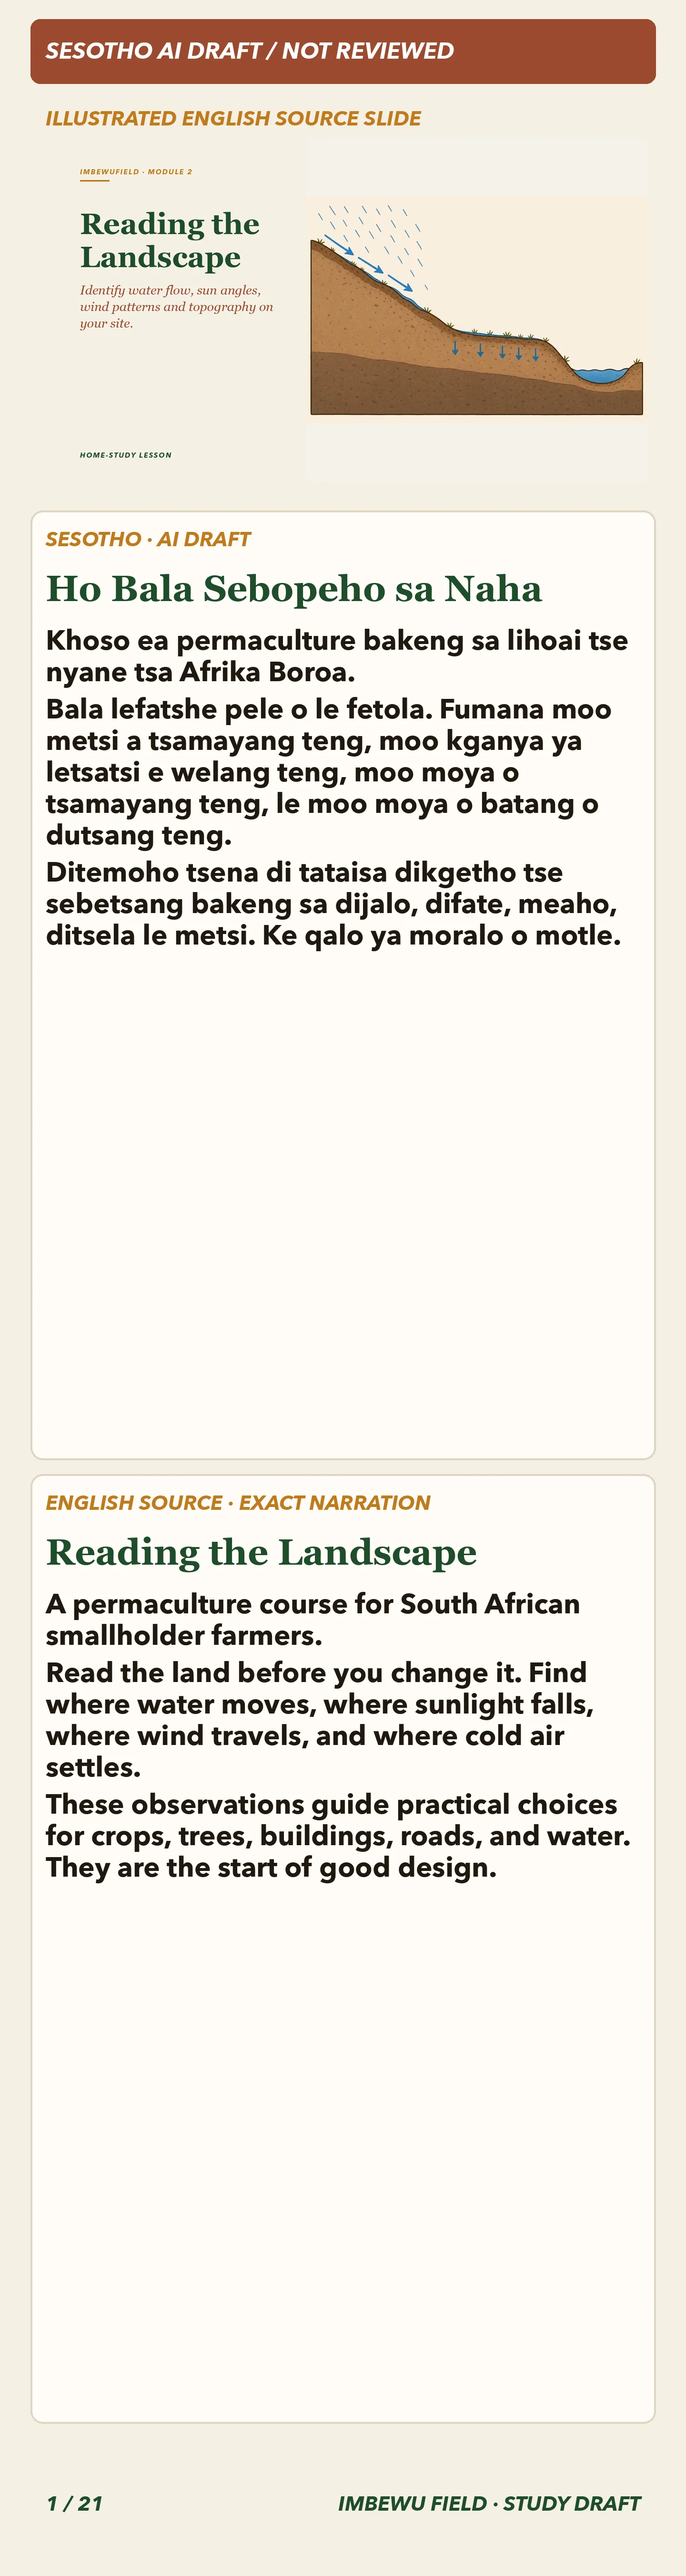
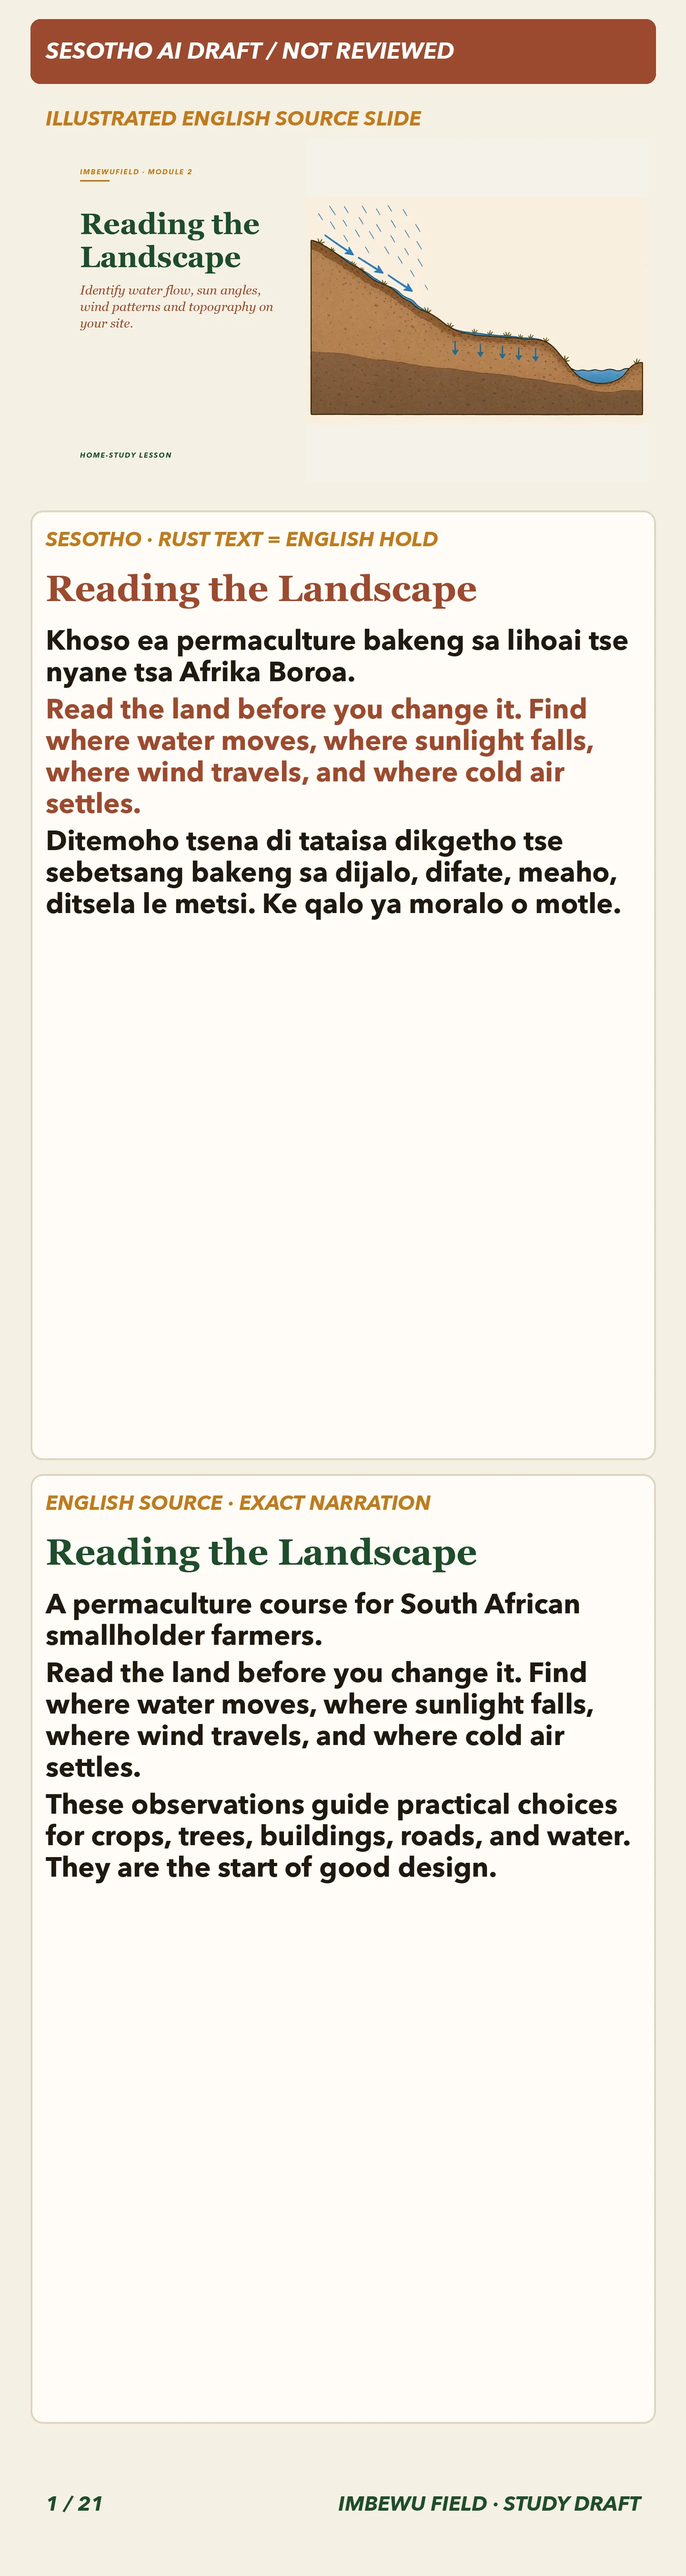
Screen Reading the Landscape heading drafts

Changed region(s): [[0.0625, 0.1867, 0.9062, 0.3733]]

diff --git a/lib/release-notes.ts b/lib/release-notes.ts
@@ -42,9 +42,10 @@ export interface UpdateTourStop {
 
 /** Shown newest-first under the Refresh button. The banner renders at most MAX_SHOWN lines total. */
 export const RELEASE_NOTES: ReleaseNote[] = [
-  { when: '28 September 2026', sha: '03671fb7', changes: [
+  { when: '28 September 2026', sha: '13579d94', changes: [
     'Introduction shows source-paired Tshivenda and Xitsonga slide drafts.',
     'Most Xitsonga text and all field guidance remain English.',
+    'Sesotho landscape slide 1 keeps its uncertain title and field step in English.',
   ], tour: [
     { title: 'Compare the regional Introduction slides', where: 'Study → Introduction to Permaculture', href: '/student',
       detail: 'Choose Tshivenda or Xitsonga. Drafts keep the English source; Xitsonga and Tshivenda audio are not available.' },

diff --git a/lib/course-asset-sizes.ts b/lib/course-asset-sizes.ts
@@ -985,7 +985,7 @@ export const COURSE_ASSET_SIZES: Readonly<Record<string, number>> = Object.freez
   '/course-decks/reading-landscape/en/slide-19.jpg': 105724,
   '/course-decks/reading-landscape/en/slide-20.jpg': 1136835,
   '/course-decks/reading-landscape/en/slide-21.jpg': 114448,
-  '/course-decks/reading-landscape/st/slide-01.webp': 247170,
+  '/course-decks/reading-landscape/st/slide-01.webp': 259018,
   '/course-decks/reading-landscape/st/slide-02.webp': 254716,
   '/course-decks/reading-landscape/st/slide-03.webp': 249790,
   '/course-decks/reading-landscape/st/slide-04.webp': 245114,

diff --git a/docs/study-translation-reviews/READING-LANDSCAPE-DESCRIPTIVE-HEADINGS-AI-DRAFT-REVIEW.md b/docs/study-translation-reviews/READING-LANDSCAPE-DESCRIPTIVE-HEADINGS-AI-DRAFT-REVIEW.md
@@ -1,0 +1,24 @@
+# Reading the Landscape descriptive heading screen
+
+- **Scope:** English source-paired headings only. This screen does not translate lesson bodies, field assignments, water-safety text, measurements, species names, or other farming guidance.
+- **Models:** Agy `gemini-3.8-flash-low` generated ten candidates from exact English headings. A separate Agy `gemini-3.1-pro-low` pass checked meaning, omissions, additions, and direction. These are machine checks, not fluent-speaker approval.
+- **Result:** Of the ten previously-held fields given new candidates, 2 passed the machine semantic screen and remain `draft`; 8 remain exact-English holds. The screen also flagged one existing Sesotho title and returned it to exact-English hold. No language or farming review has occurred.
+- **Field-instruction hold:** Sesotho slide 1's existing translation of “Read the land before you change it. Find where water moves, where sunlight falls, where wind travels, and where cold air settles.” was also restored to an exact-English hold. This was not counted as one of the ten new heading candidates.
+- **Selected-heading counts:** Across slides 1, 2, 3, 4, 8, 12, and 16, the final packets contain 12 existing or new `draft` headings and 9 exact-English heading holds. Per language: Sesotho 4/3, Tshivenda 3/4, Xitsonga 5/2 (draft/hold). These counts include prior drafts, not just this screen's candidates.
+- **Media:** The selected candidates are too small a localized subset to present as a translated slide deck, so no full deck was rebuilt. The existing registered Sesotho slide 1 was regenerated from its paired packet to reflect the held title and observation instruction. It was inspected at full size and 390 px wide; both now show those fields in English beside the exact English source. Other media was not changed.
+
+| Slide | Language | Exact English source | Candidate considered | Packet status | Back-check |
+|---|---|---|---|---|---|
+| 1 | Sesotho | Reading the Landscape | Ho Bala Sebopeho sa Naha | English hold | “Bala” was read literally as reading text/counting, not interpreting the landscape. This candidate was already present and is now held. |
+| 1 | Tshivenda | Reading the Landscape | U Vhala Mavu na Vhupo | English hold | Adds “soil” to “landscape/environment.” |
+| 4 | Tshivenda | Lesson 1: Where Rain Goes | Ngudo 1: Hune Mvula ya Ya Hone | Draft | Meaning preserved in the machine check. |
+| 8 | Sesotho | Lesson 2: Read Sun and Shade | Thuto ya 2: Bala Letsatsi le Moriti | English hold | “Bala” was read literally rather than as observing/interpreting. |
+| 8 | Tshivenda | Lesson 2: Read Sun and Shade | Ngudo 2: Vhalani Duvha na Zwidimbi | English hold | “Zwidimbi” was flagged as storms/disasters rather than shade. |
+| 12 | Sesotho | Lesson 3: Read Wind, Frost, and Slope | Thuto ya 3: Bala Moya, Serame, le Letswapo | English hold | Literal “Bala”; “Serame” may mean cold/chill rather than frost. |
+| 12 | Tshivenda | Lesson 3: Read Wind, Frost, and Slope | Ngudo 3: Vhalani Muya, Khavho, na Tshiendedzi | English hold | Frost and slope terms were flagged as incorrect or uncertain. |
+| 12 | Xitsonga | Lesson 3: Read Wind, Frost, and Slope | Dyondzo ya 3: Hlaya Mheho, Gwitsi, na Ku Petseka ka Misava | English hold | “Hlaya” was read literally rather than as observing/interpreting. |
+| 16 | Tshivenda | Lesson 4: Start Your Site Map | Ngudo 4: Thomanani Mbeo ya Site Map Yavho | English hold | “Mbeo” means seed and the imperative form was flagged. |
+| 16 | Xitsonga | Lesson 4: Start Your Site Map | Dyondzo ya 4: Sungula Site Map ya Wena | English hold | “Site Map” remains untranslated; hold for a complete candidate. |
+| 2 | Xitsonga | Why This Matters | Ha Yini Mhaka Leyi Yi Ri Ya Nkoka | Draft | Meaning preserved in the machine check. |
+
+The two `draft` fields keep their exact English heading in the adjacent `english.heading` value and are visibly unreviewed. A fluent speaker should check language, register, and local usage before classroom use. The seven selected section-heading sources are slides 1, 2, 3, 4, 8, 12, and 16; existing candidates outside the rows above retain their prior status and review history.
